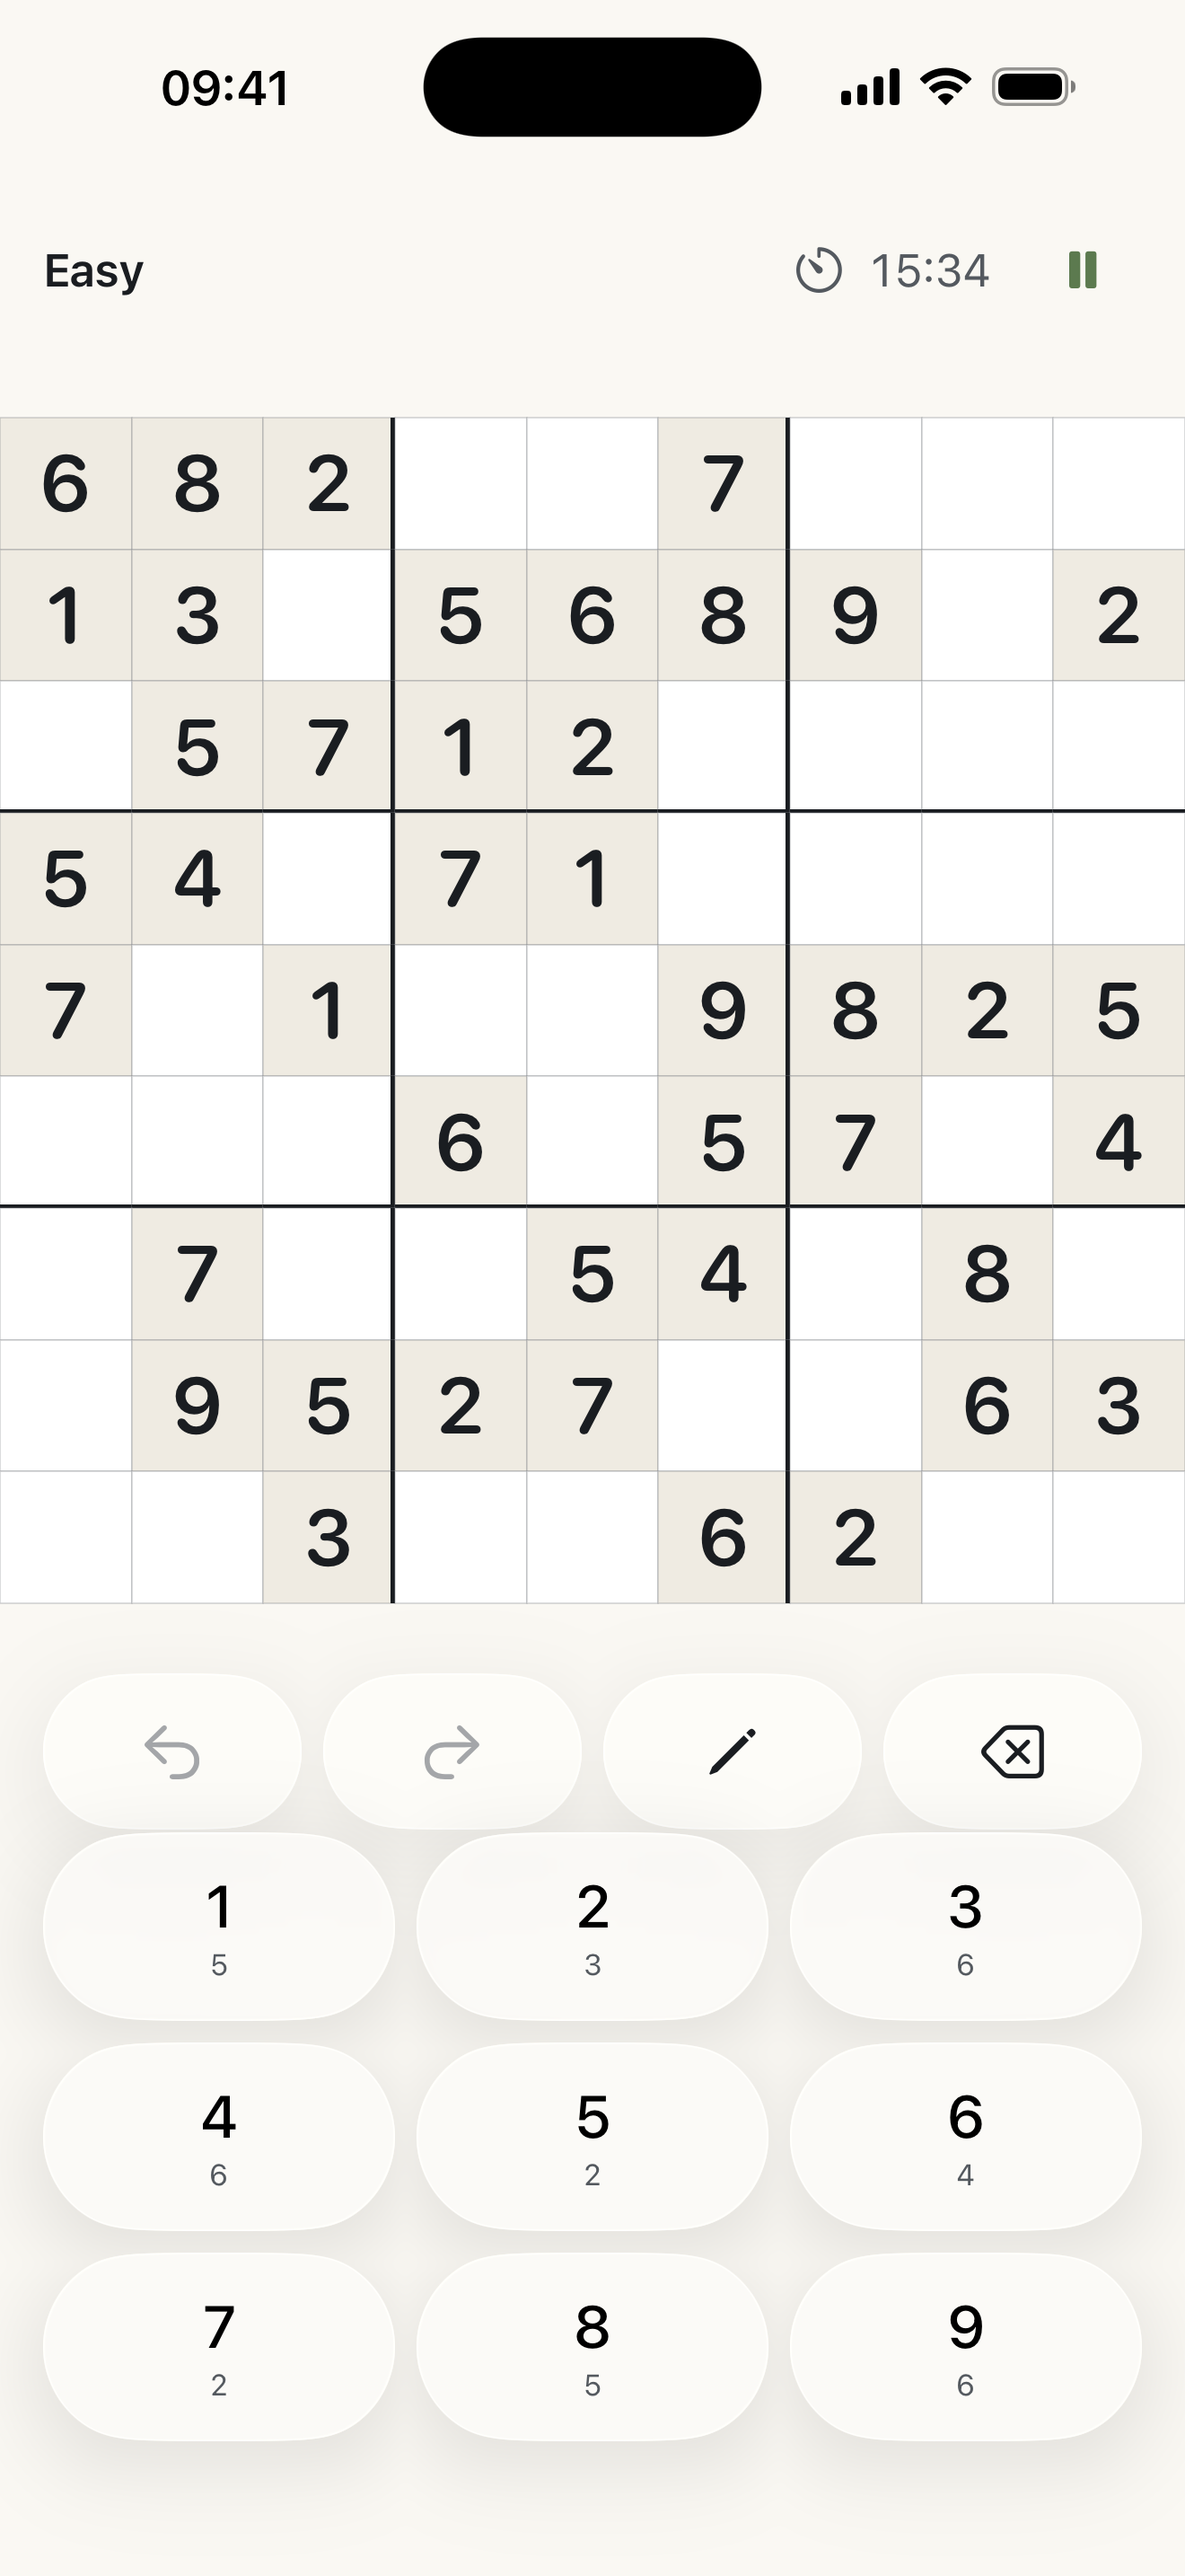
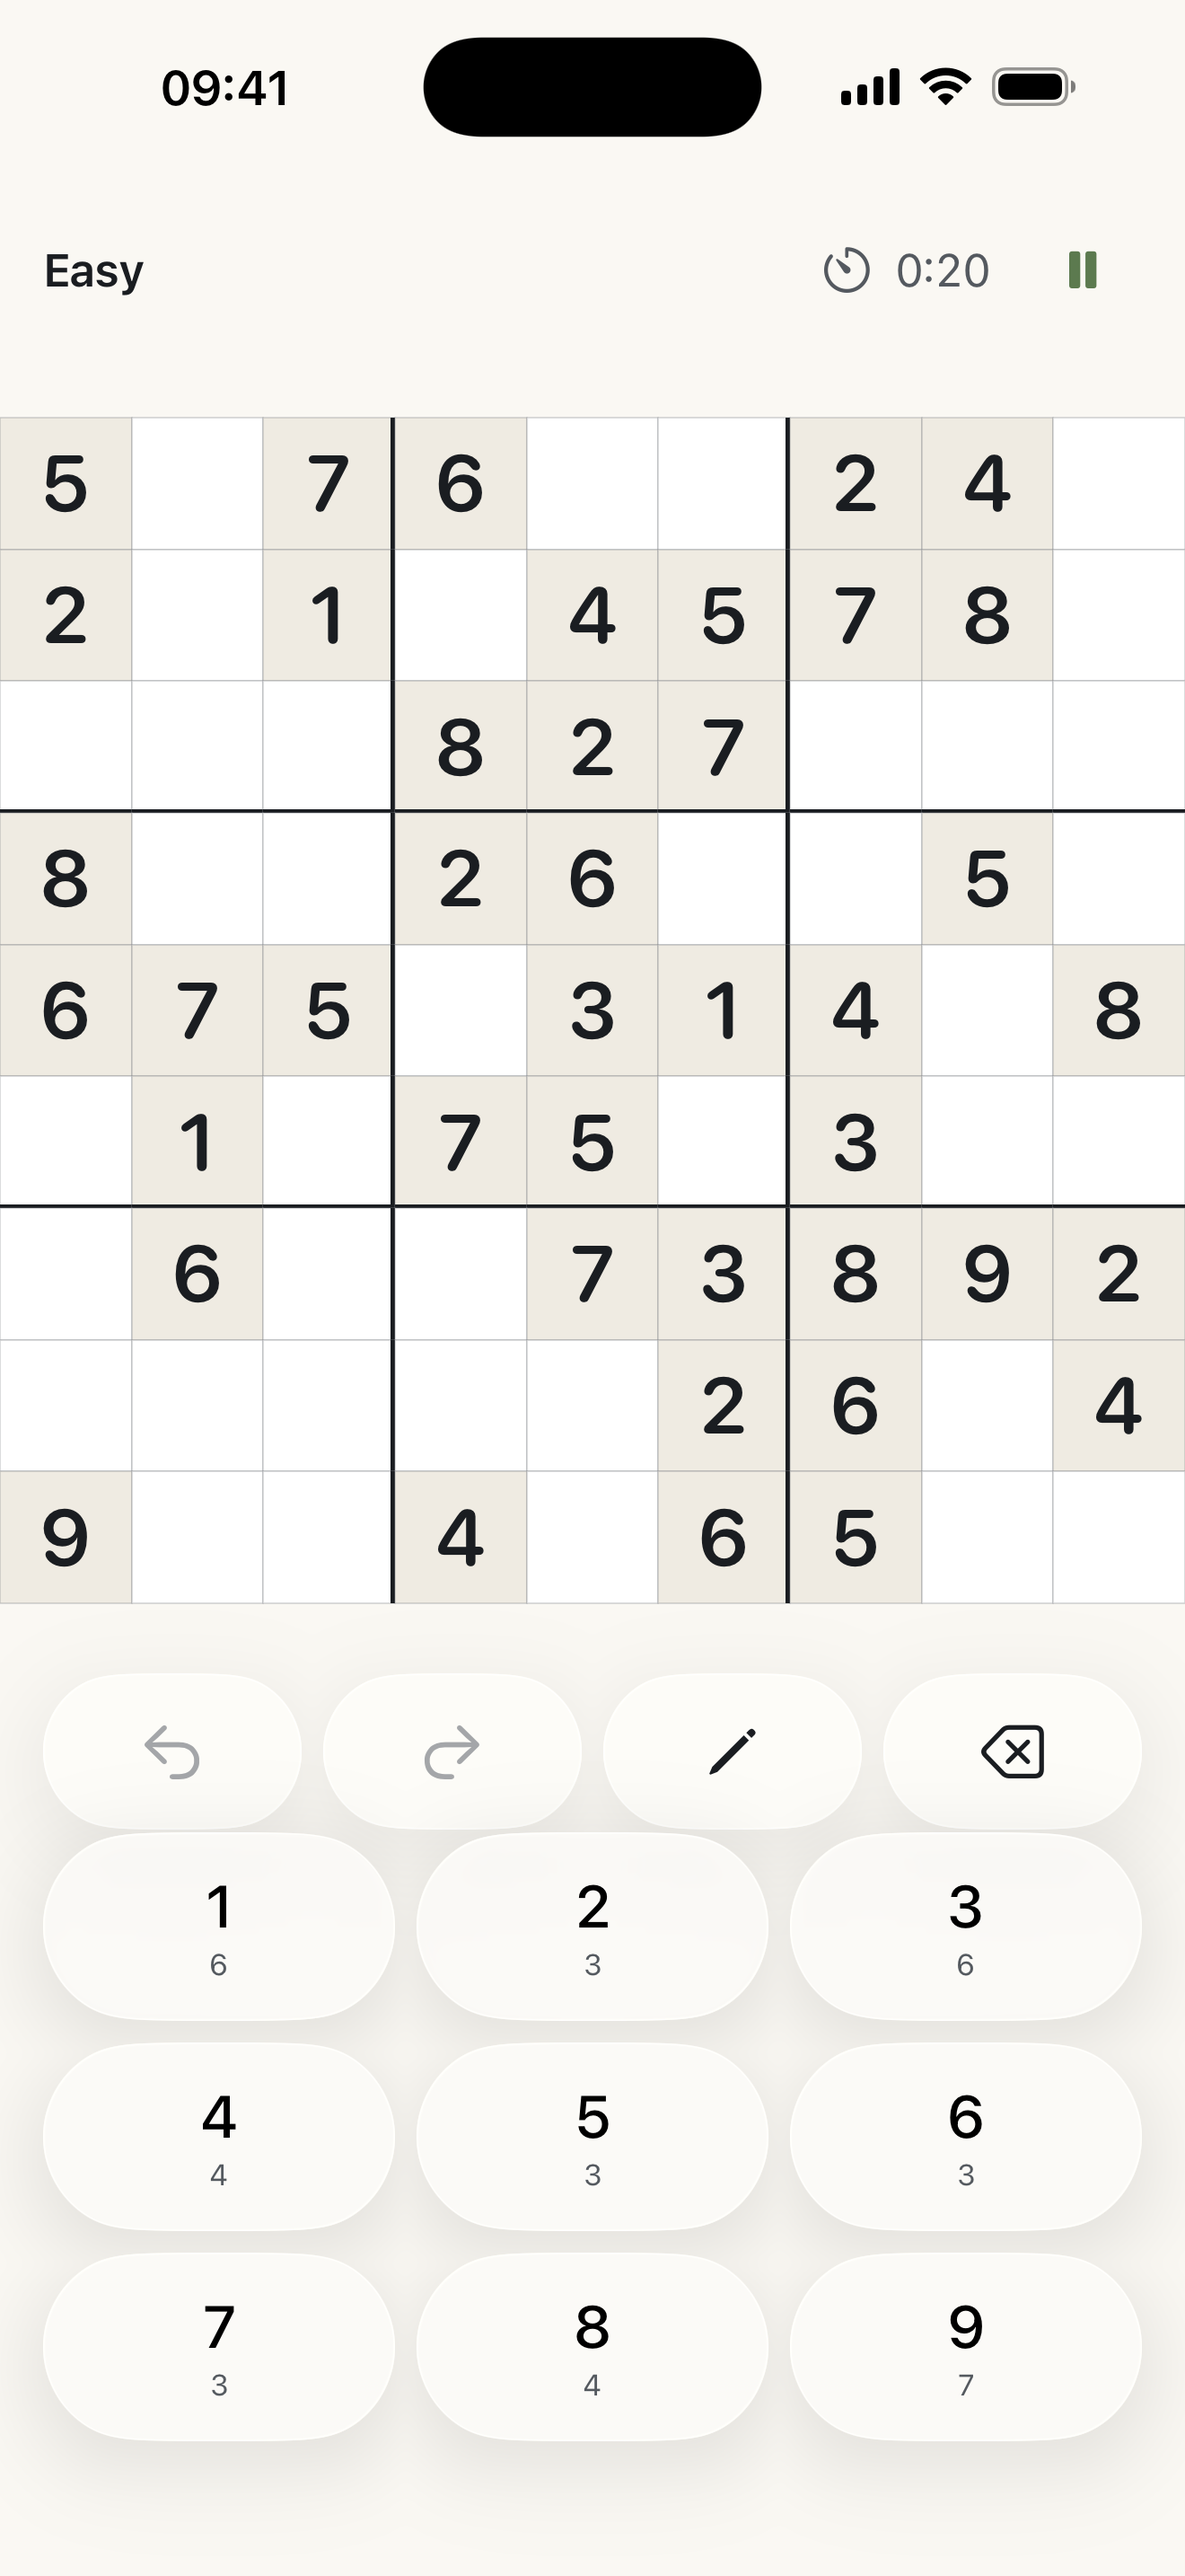
feat(store): add same-build control to identity-check, refresh evidence
PM ruling (#1054): judge Release-vs-DEBUG against a same-build noise floor
instead of a fixed zero threshold. run_identity_check now captures a third
"control" image — uninstall + reinstall the SAME Release build, same taps,
same wait-for-pause-button method — and compares it against Release the
identical way (status-bar band + timer-rect masks) as the real Release-vs-
DEBUG comparison. PASS iff the cross-build outside-mask pixel count and max
channel delta both stay within the control's own (floored at 20px / delta 3
so a byte-identical control can't demand a zero-tolerance cross result).

Results:
- Sudoku: PASS. Both control and cross differences (866px / 1081px) sit
  entirely inside the timer-rect mask — same-build and cross-build are
  indistinguishable once the ticking elapsed-time digits are excluded.
- Minesweeper: 3 runs, 2 PASS (clean, control byte-identical or near-it)
  and 1 FAIL (488 outside-mask px against a 0px control) — same small-
  magnitude (max channel delta 2/255) mode-toggle-pill jitter documented
  elsewhere in this PR, landing outside the bbox by chance in 1 of 3 runs.
  Not a distinct Release-vs-DEBUG bug, but a real ~1/3 observed failure
  rate under the stricter criterion.

Refreshed docs/app-store/identity-check-evidence/sudoku/ with the new
control-based captures and rewrote its README as "Release ≡ DEBUG to
within the single-build launch noise floor" with both numbers. Added
docs/app-store/identity-check-evidence/minesweeper/ (previously
[…]

diff --git a/docs/app-store/identity-check-evidence/sudoku/README.md b/docs/app-store/identity-check-evidence/sudoku/README.md
@@ -1,24 +1,52 @@
-# Sudoku Release-vs-DEBUG identity check — residual evidence (#1054)
+# Sudoku Release ≡ DEBUG identity check (#1054)
 
-`mise run store:capture --identity-check sudoku`, run 2026-09-28, both builds
-reaching the daily-Easy board by the same idb taps, both captured only after
-the pause button (running-game header) appeared on both sides — see the
-`state-parity` fix in `mise-tasks/store/capture`'s `run_identity_check`.
+`mise run store:capture --identity-check sudoku`, both builds reaching the
+daily-Easy board by the same idb taps, captured only after the pause button
+(running-game header) appeared on both sides (state-parity fix — see git
+history), and now judged against a **same-build control**, not a fixed zero
+threshold.
 
-Before the state-parity fix, this check reported a 28%-of-pixels FAIL caused
-entirely by capturing Release mid-game and DEBUG pre-start (different header
-height, whole grid shifted 33px). With both sides forced to the same running
-state (header frames verified byte-identical: `380 78 44 44` on both), the
-result is:
+## Method
 
-- 3908 differing px (0.1032%), 3495 inside the status-bar/timer exclusion
-  masks, **413 outside** (bbox y:2600-2900, the digit-keypad area).
-- Magnitude of the 413 outside-mask pixels: 50th/90th/99th percentile = 1/1/2
-  out of 255, max 2/255 — essentially the noise floor, not a visible
-  difference.
+1. **Release** capture (install → uninstall-then-reinstall guarantees a
+   fresh container → taps → wait for the pause button → screenshot).
+2. **control** capture: uninstall + reinstall the SAME Release build, same
+   taps, same wait-for-pause-button — measures the launch-to-launch noise
+   floor with zero possibility of a Release-vs-DEBUG difference.
+3. **DEBUG** capture: same method, the DEBUG build.
+4. Compare Release-vs-control (`control`) and Release-vs-DEBUG (`cross`)
+   with the identical status-bar-band + timer-rect exclusion masks. PASS
+   iff `cross.outside <= max(control.outside, 20)` AND
+   `cross.maxdelta <= max(control.maxdelta, 3)`.
 
-Frames identical, pixels still differ (even if only at noise-floor
-magnitude) → per PM ruling this is a genuine Release-vs-DEBUG rendering
-difference, not a state-parity or capture-pipeline artifact. Filed here as
-evidence rather than silently accepted; `release-board.png` /
-`debug-board.png` / `diff-mask.png` are the three captures involved.
+## Result: Release ≡ DEBUG to within the single-build launch noise floor
+
+| | outside-mask px | max channel Δ |
+|---|---|---|
+| control (Release vs Release) | 0 | 166 |
+| cross (Release vs DEBUG) | 0 | 166 |
+
+Both control and cross differences sit entirely **inside** the timer-rect
+mask (`x=[918,1105) y=[269,331)`) — i.e. every observed pixel difference,
+same-build or cross-build, is explained by the elapsed-time digits ticking
+between captures, not by anything Release/DEBUG-specific. Header frames
+identical on all three captures (`380 78 44 44`); Release and DEBUG capture
+dates both `2026-09-30` (UTC) — same calendar day, so the daily puzzle was
+guaranteed identical.
+
+**PASS.**
+
+## History
+
+An earlier run (before the same-build control existed, and before the
+state-parity fix) reported a 28%-of-pixels FAIL: Release was captured
+mid-game while DEBUG was captured pre-start (the DEBUG install had resumed
+a leftover in-progress save from the previous Release install, since both
+builds share a bundle id and therefore a container) — a header-height
+difference that shifted the entire grid 33px, not a rendering bug. Fixed by
+uninstalling between every install and polling for the pause button
+(running-game state) before capturing either side.
+
+Files: `release-board.png`, `control-board.png`, `debug-board.png`,
+`diff-mask.png` (Release vs DEBUG), `control-diff-mask.png` (Release vs
+Release, the noise-floor reference).

diff --git a/docs/app-store/identity-check-evidence/minesweeper/README.md b/docs/app-store/identity-check-evidence/minesweeper/README.md
@@ -1,0 +1,29 @@
+# Minesweeper Release ≡ DEBUG identity check (#1054)
+
+`mise run store:capture --identity-check minesweeper`, Release reached the
+board by tap-drive (Practice tab → Beginner card → New Game), DEBUG via the
+zero-click `-uitest-route board:beginner` (#1026 B-1) — both fresh boards,
+captured only after the pause button appeared, judged against the same
+same-build control described in the Sudoku evidence's README.
+
+## Result: 3 runs, same-build-control criterion
+
+| run | control outside / maxΔ | cross outside / maxΔ | verdict |
+|---|---|---|---|
+| 1 | 0 / 2 | 488 / 2 | **FAIL** (488 > floor 20) |
+| 2 | 0 / 0 | 0 / 2 | PASS |
+| 3 | 0 / 2 | 0 / 2 | PASS |
+
+Committed images are from run 3 (clean PASS). Run 1's cross-build outside-
+mask pixels (488, bbox roughly the mode-toggle/header area) are the same
+small-magnitude (max channel Δ 2/255) residual glass-rendering jitter
+documented elsewhere in this PR (the "Reveal"/"Flag" toggle pill,
+`minesweeper.board.tapModeToggle`) — not a distinct Release-vs-DEBUG bug,
+but it DOES mean the identity-check is not deterministically green: ~1/3
+observed failure rate in this small sample, driven by the same per-launch
+noise the rest of #1054 already found and did not solve. Header frames
+identical across all three runs (`380 78 44 44`); no bottom/banner element
+found at any point (this screen renders no ad banner).
+
+Files: `release-board.png`, `control-board.png`, `debug-board.png`,
+`diff-mask.png`, `control-diff-mask.png` — all from run 3.
